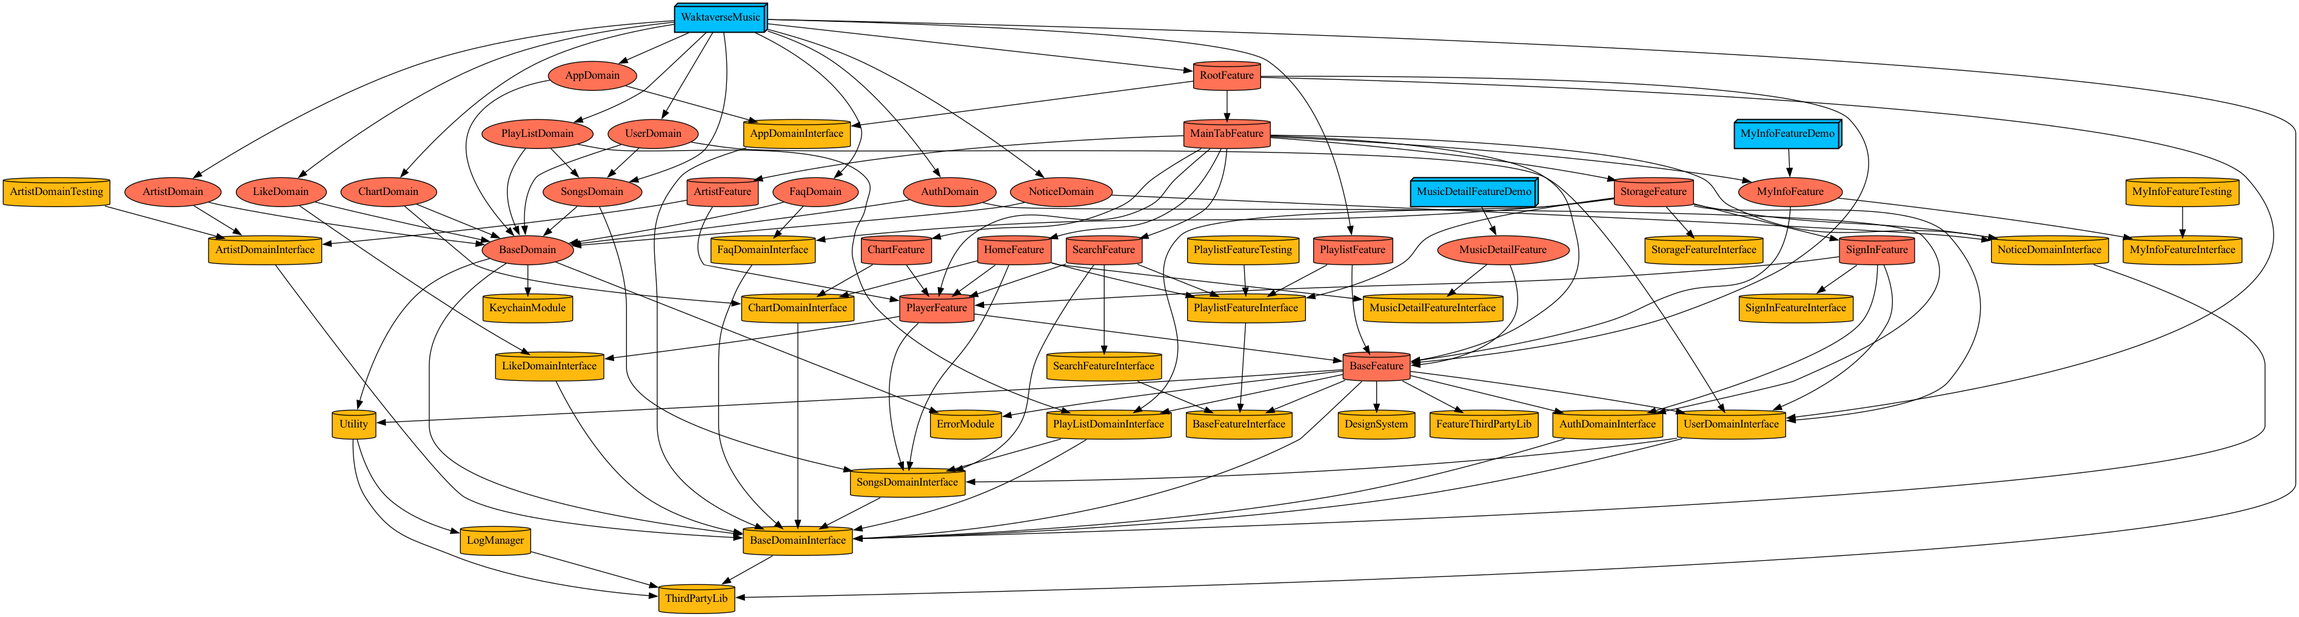
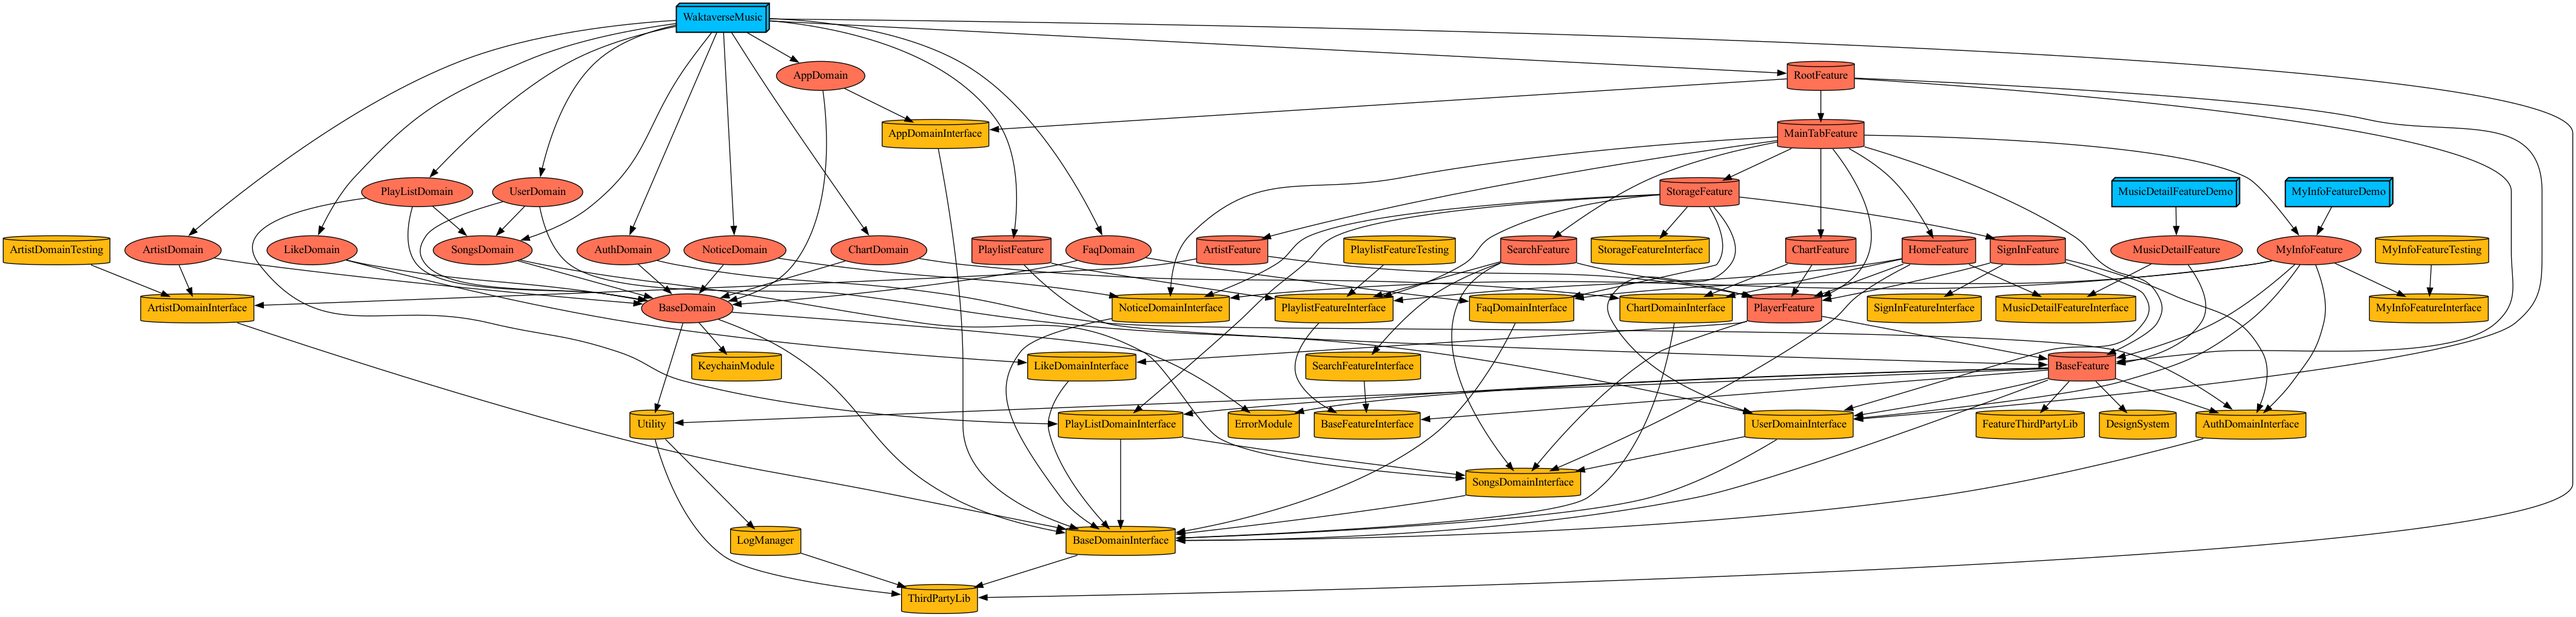
🔨 :: MyInfoFeature 의존성 추가

diff --git a/Projects/Features/MyInfoFeature/Project.swift b/Projects/Features/MyInfoFeature/Project.swift
@@ -7,8 +7,13 @@ let project = Project.module(
     targets: [
         .interface(module: .feature(.MyInfoFeature)),
         .implements(module: .feature(.MyInfoFeature), dependencies: [
+            .feature(target: .BaseFeature),
             .feature(target: .MyInfoFeature, type: .interface),
-            .feature(target: .BaseFeature)
+            .feature(target: .SignInFeature, type: .interface),
+            .domain(target: .FaqDomain, type: .interface),
+            .domain(target: .NoticeDomain, type: .interface),
+            .domain(target: .AuthDomain, type: .interface),
+            .domain(target: .UserDomain, type: .interface)
         ]),
         .testing(module: .feature(.MyInfoFeature), dependencies: [
             .feature(target: .MyInfoFeature, type: .interface)
